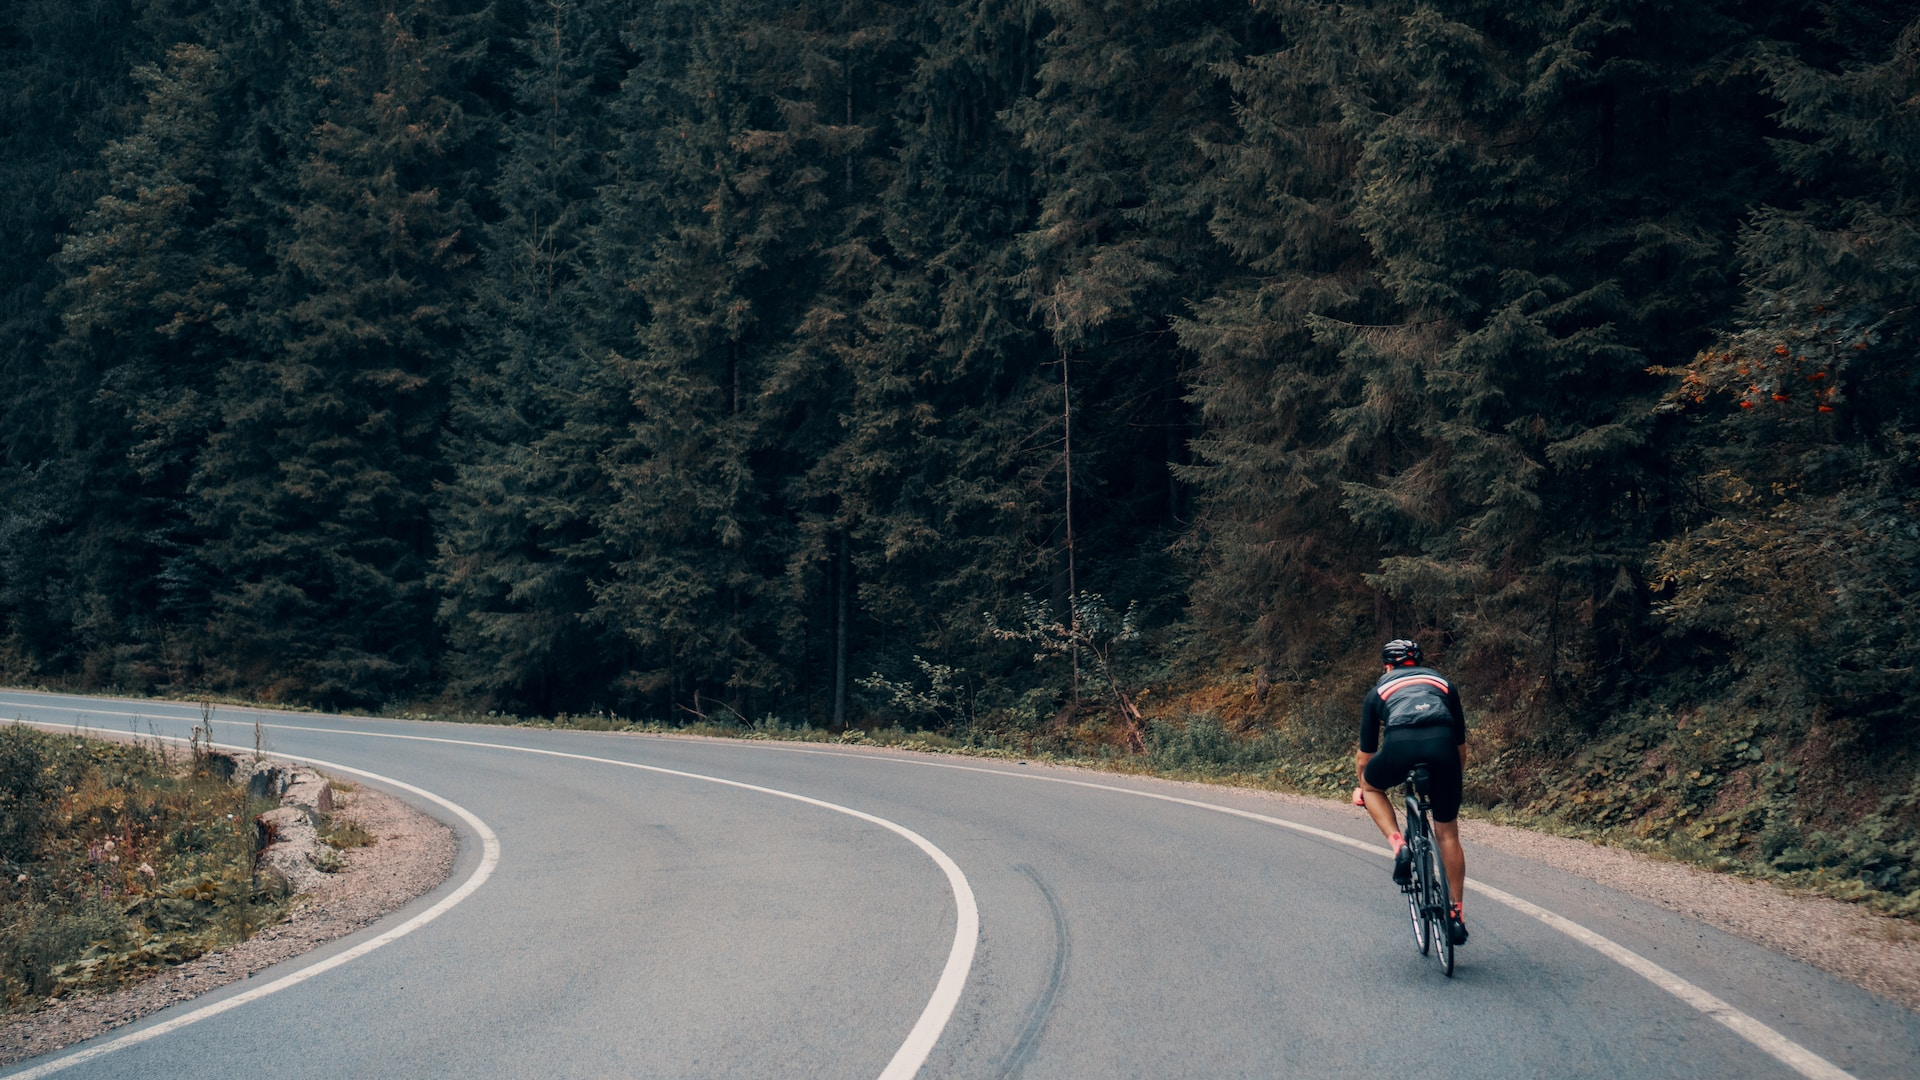
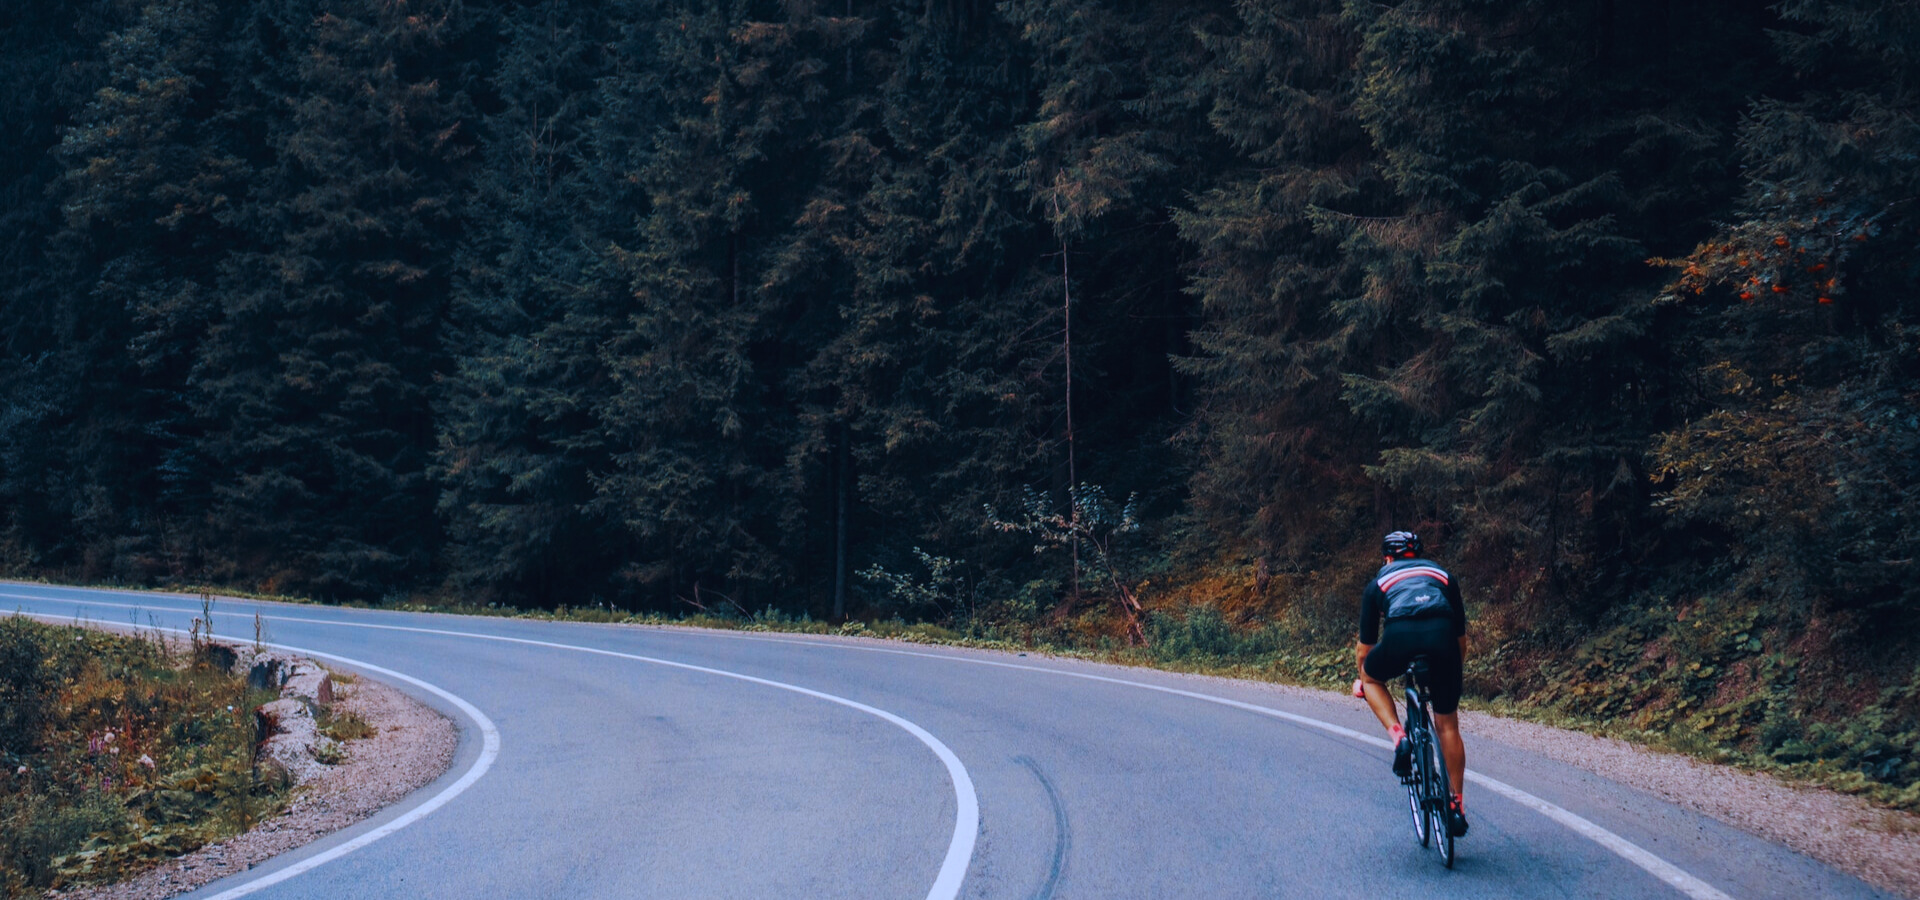
Adjusts on filter

diff --git a/cities/templates/cities/city_detail.html b/cities/templates/cities/city_detail.html
@@ -3,16 +3,17 @@
 
 {%block 'content'%}
 
-<div class="bg-image d-flex col justify-content-center align-items-center" style="
+<div class="bg-image d-flex col justify-content-center align-items-center adjust-top-page" style="
  background-color: antiquewhite;
   background-repeat: no-repeat;
   background-position: center;
   background-size: cover;
+  background-image: url('../../media/{{ city.banner_image }}');
   ">
- <!-- background-image: url('../../media/{{ city.banner_image }}'); -->
 
-<!-- <div class="bg-image d-flex col justify-content-center align-items-center"> -->
-  <div class="darker-overlay"></div>
+  <div class="d-flex justify-content-center align-items-center">
+    <h1 class="text-white" style="z-index: 9999;">{{city.name}}</h1>
+  </div>
 </div>
 <!-- {{ city.name }} -->
 <div class="container-fluid">
@@ -21,28 +22,64 @@
   </div>
 </div>
 
-<div class="border border-dark border-start-0 border-end-0 border-1 w-100 bg-light-light" style="height: 30rem;"></div>
-<!-- Mapa --> 
-  <!-- MENU DO MAPA -->
-  <!-- <div class="btn-open-menu"></div>
-  <div class="map-menu hidden">
-    <button class="btn-menu btn-remove-points">Ativar/desativar pontos</button>
-    <button class="btn-menu btn-open-route-filter">Filtrar rotas</button>
-    <div class="check-boxes-container hidden" id="routeCheckboxes">
-    </div>
-    <button class="btn-menu btn-open-points-filter">Filtrar pontos de apoio</button>
-    <div class="check-boxes-container hidden" id="pointsCheckboxes">
-      {% for category in categories_points %}
-        <div class="check-box-container">
-          <input type="checkbox" class="p-cb-iptn" data-category="{{ category.name }}">
-          <span>{{ category.name }}</span>
-        </div>  
-      {% endfor %}
-    </div>
-    <button class="btn-menu btn-close-menu">Close</button>
-  </div>  -->
+<div id="map" class="border border-dark border-start-0 border-end-0 border-1 w-100" style="height: 30rem; margin-bottom: 6rem;">
+  
+  <div class="btn-open-menu btn">
+    Filtragem de Rotas
+    <svg
+     xmlns="http://www.w3.org/2000/svg" width="32" height="32" viewBox="0 0 24 24"><path fill="currentColor" d="M4.25 5.61C6.57 8.59 10 13 10 13v5c0 1.1.9 2 2 2s2-.9 2-2v-5s3.43-4.41 5.75-7.39c.51-.66.04-1.61-.8-1.61H5.04c-.83 0-1.3.95-.79 1.61z"/>
+    </svg>
+  </div>
+  <div class="position-relative top-0">
+    <div class="map-menu hidden position-absolute top-0 end-0 rounded col-12 col-sm-9 col-md-8 col-lg-6 col-xl-4 pb-4">
+      <div class="d-flex justify-content-between align-items-center bg-primary-blue rounded-top" style="cursor: default;">
+        <div class="d-grid gap-2 col-8 col-sm-6 col-lg-6 mx-auto">
+          <button class="btn btn-dark btn-menu btn-remove-points my-2">Ativar/desativar pontos</button>
+        </div>
+        <button class="btn-menu btn-close-menu w-25 border border-0 bg-transparent">
+          <svg
+           xmlns="http://www.w3.org/2000/svg" class="text-white" width="32" height="32" viewBox="0 0 24 24"><path fill="currentColor" d="M19 6.41L17.59 5L12 10.59L6.41 5L5 6.41L10.59 12L5 17.59L6.41 19L12 13.41L17.59 19L19 17.59L13.41 12L19 6.41z"/>
+          </svg>
+        </button>
+      </div>
+      <button class="btn btn-menu btn-open-route-filter" type="button" data-bs-toggle="collapse" data-bs-target="#collapseRotas" aria-expanded="false" aria-controls="collapseExample">
+        Rotas disponíveis
+        <svg
+         xmlns="http://www.w3.org/2000/svg" width="32" height="32" viewBox="0 0 24 24"><path fill="currentColor" d="m7 10l5 5l5-5H7z"/>
+        </svg>
+      </button>
+      <div class="collapse" id="collapseRotas">
+        <div class="card card-body shadow-none">
+          <div class="check-boxes-container hidden p-0" id="routeCheckboxes">
+            
+          </div>
+        </div>
+      </div>
+      <div class="d-flex justify-content-center">
+        <hr class="w-75">
+      </div>
+      <button class="btn btn-menu btn-open-points-filter" type="button" data-bs-toggle="collapse" data-bs-target="#collapsePontos" aria-expanded="false" aria-controls="collapseExample">
+        Pontos de apoio
+        <svg xmlns="http://www.w3.org/2000/svg" width="32" height="32" viewBox="0 0 24 24"><path fill="currentColor" d="m7 10l5 5l5-5H7z"/></svg>
+      </button>
+      <div class="collapse" id="collapsePontos">
+        <div class="card card-body shadow-none">
+          <div class="check-boxes-container hidden" id="pointsCheckboxes">
+            
+            {% for category in categories_points %}
+              <div class="check-box-container">
+                <input type="checkbox" class="p-cb-iptn" data-category="{{ category.name }}">
+                <span>{{ category.name }}</span>
+              </div>  
+            {% endfor %}
+          </div>
+        </div>
+      </div>
+    </div> 
+  </div>
+</div>
 
-<div class="container mt-5 mb-5">
+<!-- <div class="container mt-5 mb-5">
   <div class="row justify-content-center flex-wrap">
     {% for e in city.routes.all %}
         <div class="col-6 col-md-4 col-lg-3 mb-3">
@@ -50,7 +87,7 @@
         </div>
     {% endfor %}
   </div>
-</div>
+</div> -->
 
 
 
@@ -58,39 +95,38 @@
   <div class="title text-center">
     <h2 class="mb-5 fw-normal text-white py-5">Conheça nossa cidade</h2>
   </div>
-    {% for image, title, text, is_even in images %}
-    <div class="card mb-5">
-      <div class="row g-0">
-        <div class="col-12 col-md-5 bg-light-light">
-          <div class="bg-image-info-point" style="background-image: url({{image}});">
+  {% for image, title, text, is_even in images %}
+  
+  <div class="mb-5 mt-5" data-aos="fade-up">
+    <div class="row col-mobile-order">
+      {% if is_even %}
+        <div class="col-md-8 col-lg-8 even-card card-container">
+          <div class="card" style="height: 100%;">
+            <div class="card-body">
+              <h3 class="card-title mt-3">{{ title }}</h3>
+              <p class="card-text">{{ text }}</p>
+            </div>
           </div>
         </div>
-        <div class="col-12 col-md-7">
-          <div class="card-body">
-              <h3 class="card-title text-center mb-3 py-3">{{title}}</h3>
-              <p class="card-text px-4 py-3 text-justify">{{text}}</p>
+        <div class="col-md-4 col-lg-4 card-image-container">
+          <img src="{{ image }}" class="img-fluid rounded-end card-image">
+        </div>
+      {% else %}
+        <div class="col-md-4 col-lg-4 card-image-container">
+          <img src="{{ image }}" class="img-fluid rounded-start card-image">
+        </div>
+        <div class="col-md-8 col-lg-8 odd-card card-container">
+          <div class="card" style="height: 100%;">
+            <div class="card-body">
+              <h3 class="card-title mt-3">{{ title }}</h3>
+              <p class="card-text">{{ text }}</p>
+            </div>
           </div>
         </div>
-      </div>
-    </div>
-{% endfor %}
-
-  <div class="modal fade" id="emBreve" data-bs-backdrop="static" data-bs-keyboard="false" tabindex="-1" aria-labelledby="staticBackdropLabel" aria-hidden="true">
-    <div class="modal-dialog">
-      <div class="modal-content">
-        <div class="modal-header">
-          <h1 class="modal-title fs-5" id="staticBackdropLabel">Conteúdo Indisponível</h1>
-          <button type="button" class="btn-close" data-bs-dismiss="modal" aria-label="Close"></button>
-        </div>
-        <div class="modal-body">
-          Obrigado pelo seu interesse! Estamos trabalhando arduamente para trazer o conteúdo que você procura. Em breve, estará disponível para você aproveitar. Agradecemos sua paciência e prometemos que valerá a pena esperar. Fique atento para mais atualizações em breve!
-      </div>
-        <div class="modal-footer">
-          <button type="button" class="btn btn-secondary" data-bs-dismiss="modal">Fechar</button>
-        </div>
-      </div>
+      {% endif %}
     </div>
   </div>
+  {% endfor %}
 
 </div>
 

diff --git a/home/templates/home/index.html b/home/templates/home/index.html
@@ -121,13 +121,11 @@
             {% endif %}
               <!-- Responsividade para Desktop -->
               <div class="banner-item-container">
-                <img class="d-none d-xl-block" src="{% static 'cities/icons/cycling.svg' %}" alt="">
                 <div class="middle-content">
                   {% for letter in city.city.name %}
                     <span class="d-none d-xl-block city-name-banner">{{ letter }}</span>
                   {% endfor %}
                 </div>
-                <img class="d-none d-xl-block" src="{% static 'cities/icons/plus.svg' %}" alt="">
               </div>          
             </a>
   

diff --git a/templates/base.html b/templates/base.html
@@ -16,7 +16,7 @@
   <meta http-equiv="X-UA-Compatible" content="IE=edge" />
   <meta name="viewport" content="width=device-width, initial-scale=1.0" />
 
-  <link rel="icon" href="{% static 'images/logos/4-nobg.png' %}" type="image/png">
+  <link rel="icon" href="{% static 'images/logos/rotacric-alternative.png' %}" type="image/png">
 
   <link rel="stylesheet" href="{% static 'style/style-route.css'%}">
 

diff --git a/templates/static/cities/style-city.css b/templates/static/cities/style-city.css
@@ -58,4 +58,7 @@
     .city-name {
         display: none;
     }
+    .adjust-top-page{
+        margin-top: 4rem;
+    }
 }

diff --git a/cities/migrations/0040_alter_cityimage_subtitle.py b/cities/migrations/0040_alter_cityimage_subtitle.py
@@ -1,0 +1,18 @@
+# Generated by Django 4.1.7 on 2023-11-08 14:52
+
+from django.db import migrations, models
+
+
+class Migration(migrations.Migration):
+
+    dependencies = [
+        ('cities', '0039_alter_city_zoom'),
+    ]
+
+    operations = [
+        migrations.AlterField(
+            model_name='cityimage',
+            name='subtitle',
+            field=models.CharField(max_length=1000),
+        ),
+    ]

diff --git a/cities/models/city_image.py b/cities/models/city_image.py
@@ -7,7 +7,7 @@ class CityImage(models.Model):
     city = models.ForeignKey(City, on_delete=models.CASCADE, related_name='images')
     image = models.ImageField(upload_to=PATH_IMAGES_CITY)
     tittle = models.CharField(max_length=50)
-    subtitle = models.CharField(max_length=400)
+    subtitle = models.CharField(max_length=1000)
 
     def __str__(self):
         return self.image.name
